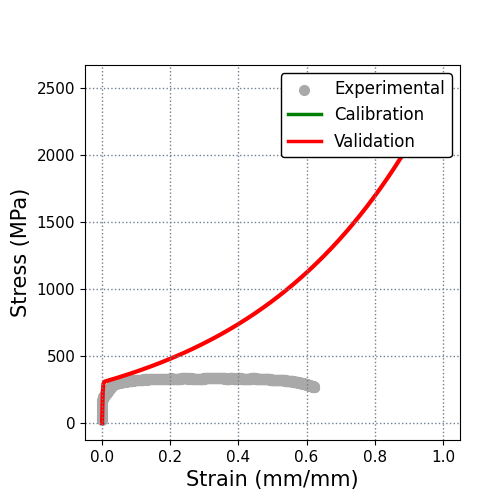
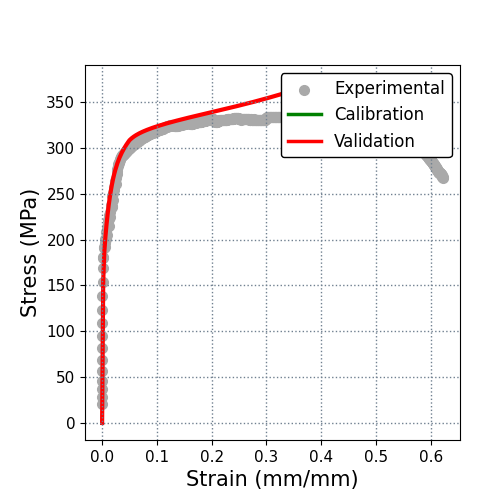
Added some large deformation code; did not work

diff --git a/scripts/test.py b/scripts/test.py
@@ -15,9 +15,44 @@ def main():
     """
     Main function
     """
+
+    # 800C, yield, UTS, ductility
+    # print(truify_stress_strain(189, 0.0039859))
+    # print(truify_stress_strain(289.5, 0.0738))
+    # print(truify_stress_strain(151.2, 0.840))
+
+    # 900C, yield, UTS, ductility
+    # print(truify_stress_strain(163, 0.0042399))
+    # print(truify_stress_strain(166.2, 0.03888))
+    # print(truify_stress_strain(133.0, 0.351))
+
+    # 1000C, yield, UTS, ductility
+    # print(truify_stress_strain(90, 0.0051301))
+    # print(truify_stress_strain(92.25, 0.0738))
+    # print(truify_stress_strain(73.8, 0.394))
+
     # Define the interface and model
-    itf = Interface("evp", input_path="data", output_here=True, verbose=False)
-    itf.define_model("evp")
+    itf = Interface("test", input_path="data", output_here=True, verbose=False)
+    itf.define_model("evpwdb")
+
+    itf.read_data("tensile/inl/AirBase_800_D7.csv")
+    itf.read_data("tensile/inl/AirBase_900_D10.csv")
+    itf.read_data("tensile/inl/AirBase_1000_D12.csv")
+
+    # itf.read_data("creep/inl_1/AirBase_900_26_G59.csv")
+    # itf.remove_oxidation()
+
+    # itf.read_data("creep/inl_1/AirBase_1000_16_G18.csv")
+    # itf.remove_oxidation()
+
+    # itf.read_data("creep/inl_1/AirBase_1000_13_G30.csv")
+    # itf.remove_oxidation(0.1, 0.7)
+
+    # itf.read_data("creep/inl_1/AirBase_1000_12_G48.csv")
+    # itf.remove_oxidation()
+
+    # itf.read_data("creep/inl_1/AirBase_1000_11_G39.csv")
+    # itf.remove_oxidation(0.1, 0.7)
 
     # Add short-term creep data
     # itf.read_data("creep/inl_1/AirBase_800_80_G25.csv")
@@ -35,7 +70,7 @@ def main():
     # itf.remove_damage(0.1, 0.7)
 
     # Add tensile data
-    itf.read_data("tensile/inl/AirBase_800_D7.csv")
+    # itf.read_data("tensile/inl/AirBase_800_D7.csv")
     # itf.remove_manual("strain", 0.3)
     # itf.add_error("area", "strain", "stress")
     # itf.add_error("end", "strain")
@@ -43,16 +78,22 @@ def main():
     # itf.add_error("yield_point", yield_stress=291)
     
     # Apply driver
-    itf.set_custom_driver(
-        driver_type = ls_tensile_driver,
-        strain_rate = itf.get_data("strain_rate"),
-        temperature = itf.get_data("temperature"),
-        max_strain  = 1.0
-    )
+    # itf.set_custom_driver(
+    #     driver_type = ls_tensile_driver,
+    #     strain_rate = itf.get_data("strain_rate"),
+    #     temperature = itf.get_data("temperature"),
+    #     max_strain  = 1.0
+    # )
 
     # Plot simulations
-    params_list = [17.217, 179.74, 0.61754, 4.4166, 1783.5]
-    itf.plot_simulation(params_list)
+    # params_list = [10.691, 120.94, 82.538, 4.9475, 763.4, 1.7115, 5.9623, 143.1, 343.32, 29.234, 1.2529] # decent evpwdb 800
+    # params_list = [10.691, 120.94, 82.538, 4.9475, 763.4]
+    # itf.plot_simulation(params_list)
+
+def truify_stress_strain(eng_stress, eng_strain):
+    true_stress = eng_stress * (1 + eng_strain)
+    true_strain = np.log(1 + eng_strain)
+    return true_stress, true_strain
 
 # Calls the main function
 if __name__ == "__main__":

diff --git a/scripts/main.py b/scripts/main.py
@@ -15,7 +15,7 @@ def main():
     Main function
     """
     # Define the interface and model
-    itf = Interface("evpwdb 800C", input_path="data", output_path="results")
+    itf = Interface("evpwdb 800C bt area10", input_path="data", output_path="results")
     itf.define_model("evpwdb")
 
     # Add short-term creep data
@@ -36,7 +36,7 @@ def main():
     # Add tensile data
     itf.read_data("tensile/inl/AirBase_800_D7.csv")
     itf.get_data("strain_rate")
-    itf.add_error("area", "strain", "stress")
+    itf.add_error("area", "strain", "stress", weight=10)
     # itf.add_error("yield_point", yield_stress=189) # 189MPa @ 800C, 163MPa @ 900C, 90MPa @ 1000C
     itf.add_error("end", "strain")
     itf.add_error("end", "stress")

diff --git a/moga_neml/drivers/driver.py b/moga_neml/drivers/driver.py
@@ -48,11 +48,12 @@ class Driver:
         """
 
         # Get the results
-        try:
-            with BlockPrint():
-                results = self.run_selected()
-        except:
-            return
+        results = self.run_selected()
+        # try:
+        #     with BlockPrint():
+        #         results = self.run_selected()
+        # except:
+        #     return
         
         # Convert results and return
         converted_results = {}

diff --git a/moga_neml/models/evp.py b/moga_neml/models/evp.py
@@ -20,7 +20,8 @@ class Model(__Model__):
         # Define parameters
         self.add_param("evp_s0",  0.0e0, 1.0e3) # 3 (</ 1e2)
         self.add_param("evp_R",   0.0e0, 1.0e3) # 4
-        self.add_param("evp_d",   0.0e0, 1.0e2) # 2
+        # self.add_param("evp_d",   0.0e0, 1.0e2) # 2
+        self.add_param("evp_d",   0.0e0, 1.0e1) # 2
         self.add_param("evp_n",   1.0e0, 1.0e2) # 2
         self.add_param("evp_eta", 0.0e0, 1.0e4) # 5
         

diff --git a/moga_neml/drivers/large_strain.py b/moga_neml/drivers/large_strain.py
@@ -13,10 +13,10 @@ from neml.nlsolvers import newton
 NUM_STEPS    = 500
 NUM_STEPS_UP = 200
 MAX_STRAIN   = 1.0
-CHECK_DAMAGE = True
+CHECK_DAMAGE = False
 # TIME_HOLD    = 15000.0 * 3600
 # NUM_STEPS_UP = 50
-DAMAGE_TOL   = 0.95
+DAMAGE_TOL   = 0.90 # 0.95
 # STRESS_RATE  = 0.0001
 
 # Solver constants
